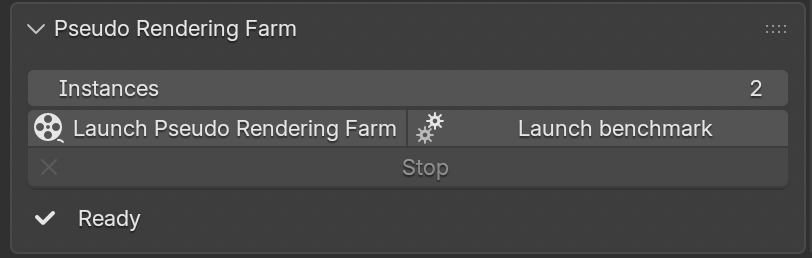
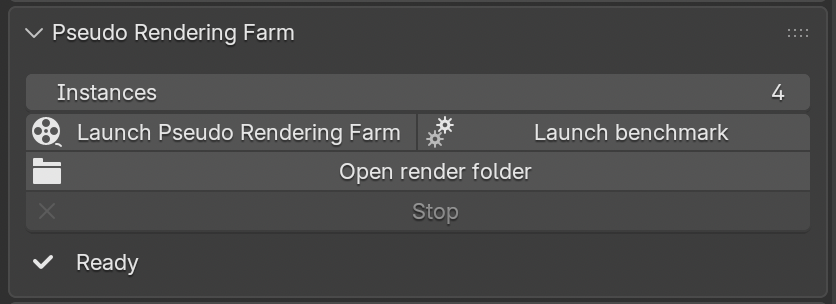
Fix UI inconsistencies and improve usability (#9)

diff --git a/__init__.py b/__init__.py
@@ -1,5 +1,7 @@
 import bpy
 import os
+from pathlib import Path
+import platform
 import shutil
 import subprocess
 import tempfile
@@ -19,6 +21,8 @@ class Globals:
     start_time = 0
     elapsed_time = 0
     seconds_per_frame = 0
+    declining_streak = 0
+    peak_throughput = 0
 
 
 def is_image_valid(filepath):
@@ -77,6 +81,18 @@ def cleanup_bench_dir():
         Globals.bench_temp_dir = ""
 
 
+def terminate_all_processes():
+    for proc in Globals.active_render_processes:
+        if proc.poll() is None:
+            proc.terminate()
+    for proc in Globals.active_render_processes:
+        try:
+            proc.wait(timeout=5)
+        except subprocess.TimeoutExpired:
+            proc.kill()
+    Globals.active_render_processes.clear()
+
+
 def check_render_status():
     for proc in Globals.active_render_processes[:]:
         if proc.poll() is not None:
@@ -90,13 +106,16 @@ def check_render_status():
 
         Globals.benchmark_results[Globals.current_bench_instances] = throughput
 
+        if throughput > Globals.peak_throughput:
+            Globals.peak_throughput = throughput
+            Globals.declining_streak = 0
+        else:
+            Globals.declining_streak += 1
+
         if (
             Globals.early_exit_benchmark
-            or Globals.current_bench_instances >= 32
-            or (
-                Globals.current_bench_instances > 2
-                and throughput < Globals.benchmark_results[1]
-            )
+            or Globals.current_bench_instances >= 16
+            or Globals.declining_streak >= 2
         ):
             best_count = max(
                 Globals.benchmark_results, key=Globals.benchmark_results.get
@@ -220,16 +239,12 @@ class RENDER_OT_cancel_pseudo_rendering_farm(bpy.types.Operator):
             self.report({"INFO"}, "No active processes found")
             return {"FINISHED"}
 
-        count = 0
-        for proc in Globals.active_render_processes:
-            if proc.poll() is None:
-                proc.terminate()
-                count += 1
-        Globals.early_exit_benchmark = True
+        count = len([p for p in Globals.active_render_processes if p.poll() is None])
+        if Globals.is_benchmarking:
+            Globals.early_exit_benchmark = True
         Globals.is_benchmarking = False
 
-        Globals.active_render_processes.clear()
-
+        terminate_all_processes()
         time.sleep(0.2)
         cleared = cleanup_corrupted_frames()
         cleanup_bench_dir()
@@ -256,19 +271,16 @@ def launch_benchmark_iteration(context):
     exe = bpy.app.binary_path
     blend = bpy.data.filepath
     scene = bpy.context.scene
-    Globals.benchmark_frames = (
-        min(scene.frame_end, 50) // Globals.current_bench_instances
-    )
-    Globals.benchmark_frames *= (
-        Globals.current_bench_instances
-    )  # Ensure that the amount of frames is divisible
+    frame_start = scene.frame_start
+    frame_end = scene.frame_end
+    available = frame_end - frame_start + 1
+    Globals.benchmark_frames = min(48, available)
 
     Globals.bench_status_msg = f"Testing {Globals.current_bench_instances} instances on {Globals.benchmark_frames} frames"
 
     out_path = os.path.join(
         Globals.bench_temp_dir, f"inst_{Globals.current_bench_instances}", "frame_"
     )
-    print(out_path)
     os.makedirs(os.path.dirname(out_path), exist_ok=True)
     for _ in range(Globals.current_bench_instances):
         cmd = [
@@ -278,9 +290,9 @@ def launch_benchmark_iteration(context):
             "-o",
             out_path,
             "-s",
-            "1",
+            str(frame_start),
             "-e",
-            str(Globals.benchmark_frames),
+            str(frame_start + Globals.benchmark_frames - 1),
             "-a",
         ]
         Globals.active_render_processes.append(subprocess.Popen(cmd))
@@ -296,13 +308,28 @@ class RENDER_OT_benchmarking(bpy.types.Operator):
     bl_label = "Launch benchmark"
 
     def execute(self, context):
+        scene = context.scene
+        rd = scene.render
+
+        if rd.use_overwrite:
+            self.report({"ERROR"}, "Validation Failed: 'Overwrite' must be UNCHECKED")
+            return {"CANCELLED"}
+
+        if not rd.use_placeholder:
+            self.report({"ERROR"}, "Validation Failed: 'Placeholders' must be CHECKED")
+            return {"CANCELLED"}
+
         if not bpy.data.filepath:
             self.report({"ERROR"}, "Save file before benchmarking.")
             return {"CANCELLED"}
 
+        bpy.ops.wm.save_mainfile()
+
         Globals.is_benchmarking = True
         Globals.current_bench_instances = 1
         Globals.benchmark_results = {}
+        Globals.declining_streak = 0
+        Globals.peak_throughput = 0
         Globals.bench_temp_dir = tempfile.mkdtemp(prefix="blender_bench_")
 
         launch_benchmark_iteration(context)
@@ -312,6 +339,37 @@ class RENDER_OT_benchmarking(bpy.types.Operator):
 """
 UI
 """
+
+
+class RENDER_OT_open_folder(bpy.types.Operator):
+    """Open the folder with rendered data"""
+
+    bl_idname = "render.open_folder"
+    bl_label = "Open folder"
+
+    def sanitize(self, context):
+        frame_path = Path(
+            context.scene.render.frame_path(frame=context.scene.frame_current)
+        )
+        folder_path = frame_path.parent.absolute()
+        return folder_path
+
+    def execute(self, context):
+        render_path = self.sanitize(context)
+
+        if not os.path.exists(render_path):
+            print(f"Error: The folder '{render_path}' does not exist yet.")
+            return
+
+        current_os = platform.system()
+        if current_os == "Windows":
+            os.startfile(render_path)
+        elif current_os == "Darwin":
+            subprocess.run(["open", render_path])
+        else:
+            subprocess.run(["xdg-open", render_path])
+
+        return {"FINISHED"}
 
 
 class RENDER_PT_pseudo_rendering_farm_panel(bpy.types.Panel):
@@ -325,11 +383,10 @@ class RENDER_PT_pseudo_rendering_farm_panel(bpy.types.Panel):
         layout = self.layout
         scene = context.scene
 
-        for proc in Globals.active_render_processes[:]:
-            if proc.poll() is not None:
-                Globals.active_render_processes.remove(proc)
-
-        is_running = len(Globals.active_render_processes) > 0 or Globals.is_benchmarking
+        is_running = (
+            any(p.poll() is None for p in Globals.active_render_processes)
+            or Globals.is_benchmarking
+        )
         col = layout.column(align=True)
 
         sub_col = col.column()
@@ -343,6 +400,12 @@ class RENDER_PT_pseudo_rendering_farm_panel(bpy.types.Panel):
         benchmark_row = row.row(align=True)
         benchmark_row.enabled = not is_running
         benchmark_row.operator("render.benchmarking", icon="SETTINGS")
+
+        row = col.row(align=True)
+        open_row = row.row(align=True)
+        open_row.operator(
+            "render.open_folder", icon="FILE_FOLDER", text="Open render folder"
+        )
 
         row = col.row(align=True)
         cancel_row = row.row(align=True)
@@ -372,6 +435,7 @@ classes = [
     RENDER_OT_pseudo_rendering_farm,
     RENDER_OT_cancel_pseudo_rendering_farm,
     RENDER_OT_benchmarking,
+    RENDER_OT_open_folder,
     RENDER_PT_pseudo_rendering_farm_panel,
 ]
 
@@ -379,7 +443,6 @@ classes = [
 def register():
     for c in classes:
         bpy.utils.register_class(c)
-    bpy.types.Scene.is_notifying = bpy.props.BoolProperty(default=False)
     bpy.types.Scene.pseudo_rendering_farm_instances = bpy.props.IntProperty(
         name="Instances", default=2, min=1, max=32
     )
@@ -389,7 +452,6 @@ def unregister():
     for c in classes:
         bpy.utils.unregister_class(c)
     del bpy.types.Scene.pseudo_rendering_farm_instances
-    del bpy.types.Scene.is_notifying
 
 
 if __name__ == "__main__":

diff --git a/README.md b/README.md
@@ -13,10 +13,11 @@ A small script to leverage parallel rendering in Blender on a single machine
 
 ## Installation
 
-> [!NOTE]
-> WIP to make an easier installation. Stay tuned.
+There are two ways to install this extension. The first option uses the built-in Blender functionality to locate and install the extensions. All you need to do is search for “Pseudo Rendering Farm” in Edit -> Preferences -> Get Extensions. This will also allow you to automatically install updates.
 
-The installation is straightforward. All you need to do is download latest release from the [panel on the right](https://github.com/MKlimenko/PseudoRenderingFarm/releases) and install it in Edit -> Preferences -> Add-ons -> Install from Disk... (on the top right end of the window).
+![extension](doc/installation.png)
+
+Another way is to download the latest release from the [panel on the right](https://github.com/MKlimenko/PseudoRenderingFarm/releases) and install it by navigating to Edit -> Preferences -> Add-ons -> Install from Disk… (located at the top right of the window).
 
 ## Usage
 
@@ -32,7 +33,7 @@ To render each frame, Blender prepares the necessary data, sends it to the GPU a
 
 This plugin solves it by launching several background Blender instances in parallel. By using frame placeholders and disabling overwrite, each instance claims the frame and starts working on it independently.
 
-The result is faster rendering due to better hardware utilization. On the left hand side you can see that the renders are separated by an amount of time equal to the render itself. At the same time, spawning multiple instances improves the situation significantly. In this scenario, we're hitting VRAM limit sooner, so I'm planning to do more testing on platforms with more memory (NVIDIA 4060 Ti 16GB or Intel Arc Pro B50/B60).
+The result is faster rendering due to better hardware utilization. On the left hand side you can see that the renders are separated by an amount of time equal to the render itself. At the same time, spawning multiple instances improves the situation significantly, at the expense of spending more system RAM and VRAM.
 
 | Before                    | After                   |
 |---------------------------|-------------------------|
@@ -55,3 +56,5 @@ The same principle can be also applied for an animated series. Below are the col
 |--------------------------|---------|---------|---------|---------|
 | Mac Mini M1 (8GB)        | 24m41s  | 18m27s  | 21m27s  | 26m21s  |
 | NVIDIA 4070 Super (12GB) | 6m53s   | 4m25s   | 3m15s   | 2m52s   |
+| NVIDIA 4090 (24GB)       | 4m49s   | 2m41s   | 2m16s   | 1m59s   |
+| Intel Arc Pro B70 (32GB) | 8m48s   | 5m57s   | 4m07s   | 3m50s   |